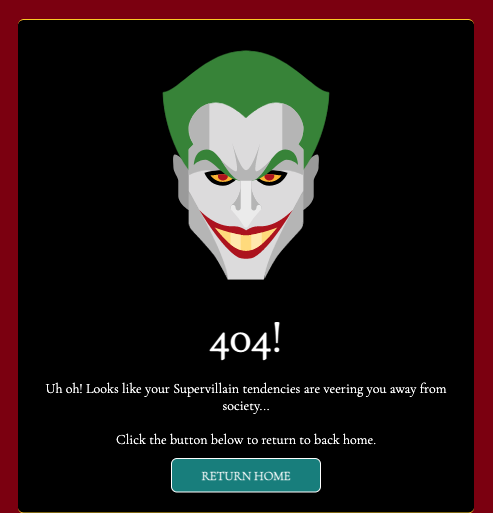
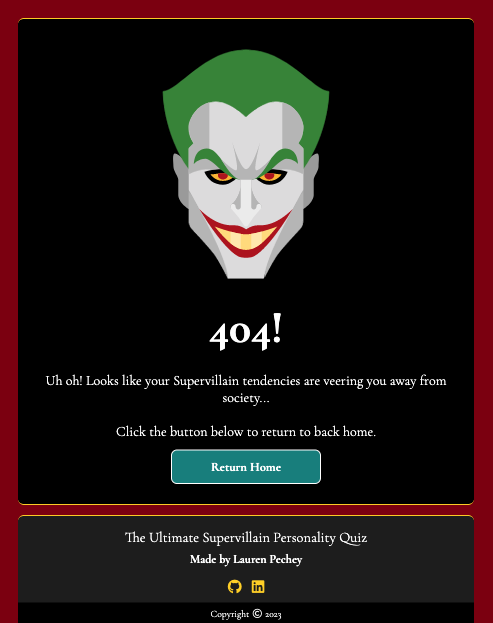
docs: Update screenshots of 404 page

Changed region(s): [[0.0304, 0.5926, 0.9736, 1.0], [0.0304, 0.0, 0.9736, 0.5614]]

diff --git a/404.html b/404.html
@@ -25,7 +25,7 @@
             <p>Uh oh! Looks like your Supervillain tendencies are veering you away from society...<br><br>Click the
                 button below to return to back home.</p>
             <!-- Go Home Button -->
-            <a href="index.html" class="go-home-btn" aria-label="Takes user back to Home Page">RETURN HOME</a>
+            <a href="index.html" class="go-home-btn" aria-label="Takes user back to Home Page">Return Home</a>
         </div>
     </div>
 
